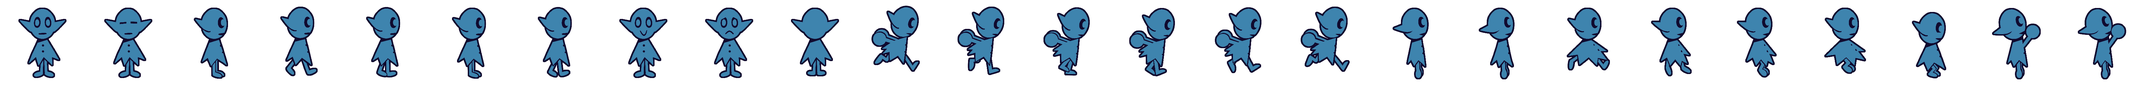
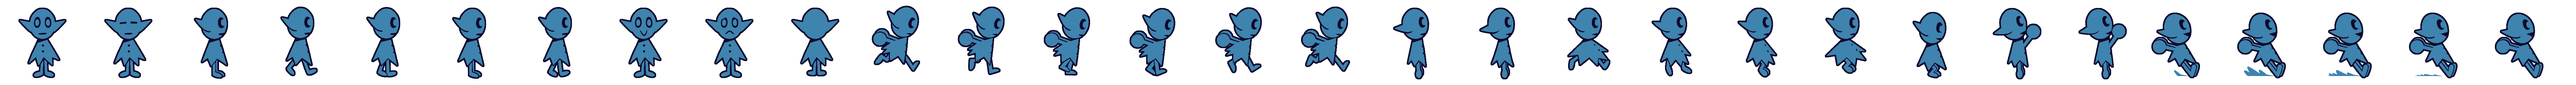
slide anims and platforms on offseason

diff --git a/offseason/kha.js b/offseason/kha.js
@@ -596,7 +596,7 @@ core_Animation.prototype = {
 			forceRestart = false;
 		}
 		this.isPaused = false;
-		if(forceRestart || this.completed || this.currentAnim == null || name != this.currentAnim.name) {
+		if(forceRestart || this.currentAnim == null || name != this.currentAnim.name) {
 			this.animTime = 0;
 			this.currentAnim = this._animations.h[name];
 			this.completed = false;
@@ -31901,8 +31901,11 @@ var game_actors_Player = function(x,y) {
 	this.animation.add("jump-down-alt",[21]);
 	this.animation.add("crouch",[22]);
 	this.animation.add("super-jump",[23,24]);
+	this.animation.add("slide",[25,26,27,28,29],0.08,false);
 	this.animation.onComplete = function(anim) {
-		_gthis.animation.play("still");
+		if(anim == "blink") {
+			_gthis.animation.play("still");
+		}
 	};
 	this.bodyOffset = new core_IntVec2(96,208);
 	this.echoBody = new echo_Body({ x : x + this.bodyOffset.x, y : y + this.bodyOffset.y, drag_x : 4800, mass : 1, max_velocity_x : 960, max_velocity_y : 1920, material : new echo_Material(0.0,null,null,null,null), shape : { type : 0, width : 64, height : 24}});
@@ -32061,7 +32064,7 @@ game_actors_Player.prototype = $extend(core_Sprite.prototype,{
 		} else if(this.state == game_actors_PlayerState.Hanging) {
 			this.animation.play("jump-down-mid");
 		} else if(this.state == game_actors_PlayerState.Sliding) {
-			this.animation.play("crouch");
+			this.animation.play("slide");
 		} else if(this.state == game_actors_PlayerState.Crouching) {
 			this.animation.play("crouch");
 		} else if(this.state == game_actors_PlayerState.Rocket) {
@@ -32077,7 +32080,7 @@ game_actors_Player.prototype = $extend(core_Sprite.prototype,{
 		if(this.echoBody.acceleration.x < 0.0 && !this.flipX) {
 			this.flipX = true;
 		}
-		haxe_Log.trace(this.animation.getCurrentAnim(),{ fileName : "game/actors/Player.hx", lineNumber : 319, className : "game.actors.Player", methodName : "updateAnimation"});
+		haxe_Log.trace(this.animation.getCurrentAnim(),{ fileName : "game/actors/Player.hx", lineNumber : 322, className : "game.actors.Player", methodName : "updateAnimation"});
 	}
 	,jump: function(superJump) {
 		this.jumpTime = 0.0;
@@ -32210,6 +32213,7 @@ game_objects_Triangle.prototype = $extend(core_Sprite.prototype,{
 	,__class__: game_objects_Triangle
 });
 var game_scenes_WorldScene = function() {
+	this.sideRects = [];
 	this.rects = [];
 	this.tris = [];
 	core_Scene.call(this);
@@ -32221,6 +32225,7 @@ game_scenes_WorldScene.prototype = $extend(core_Scene.prototype,{
 	world: null
 	,tris: null
 	,rects: null
+	,sideRects: null
 	,player: null
 	,friend: null
 	,create: function() {
@@ -32239,7 +32244,7 @@ game_scenes_WorldScene.prototype = $extend(core_Scene.prototype,{
 			var t = _g1[_g];
 			++_g;
 			var tri = new game_objects_Triangle(t.v1,t.v2,t.v3);
-			haxe_Log.trace(t.v1,{ fileName : "game/scenes/WorldScene.hx", lineNumber : 53, className : "game.scenes.WorldScene", methodName : "create", customParams : [t.v2,t.v3]});
+			haxe_Log.trace(t.v1,{ fileName : "game/scenes/WorldScene.hx", lineNumber : 54, className : "game.scenes.WorldScene", methodName : "create", customParams : [t.v2,t.v3]});
 			this.world.add(tri.echoBody);
 			this.tris.push(tri.echoBody);
 			this.addSprite(tri);
@@ -32254,6 +32259,15 @@ game_scenes_WorldScene.prototype = $extend(core_Scene.prototype,{
 			this.rects.push(rect.echoBody);
 			this.addSprite(rect);
 		}
+		var _g = 0;
+		var _g1 = map.objectGroups.h["side-rects"];
+		while(_g < _g1.length) {
+			var r = _g1[_g];
+			++_g;
+			var rect = new game_objects_Rect(r.x,r.y,r.width,r.height);
+			this.world.add(rect.echoBody);
+			this.sideRects.push(rect.echoBody);
+		}
 		this.world.add(this.friend.echoBody);
 		this.addSprite(this.friend);
 		this.world.add(this.player.echoBody);
@@ -32262,6 +32276,7 @@ game_scenes_WorldScene.prototype = $extend(core_Scene.prototype,{
 		this.camera.startFollow(this.player);
 		this.camera.setBounds(0,0,5679,6814);
 		echo_Echo.listen(this.world,haxe_ds_Either.Left(this.player.echoBody),haxe_ds_Either.Right(this.tris),{ separate : false, stay : $bind(this,this.playerStayColl)});
+		echo_Echo.listen(this.world,haxe_ds_Either.Left(this.player.echoBody),haxe_ds_Either.Right(this.sideRects));
 		echo_Echo.listen(this.world,haxe_ds_Either.Left(this.player.echoBody),haxe_ds_Either.Right(this.rects),{ separate : false, stay : $bind(this,this.playerStayColl)});
 	}
 	,update: function(delta) {
@@ -32283,7 +32298,7 @@ game_scenes_WorldScene.prototype = $extend(core_Scene.prototype,{
 			this.camera.scale.set(0.25,0.25);
 		}
 		if(this.game.keys.justPressed(79)) {
-			haxe_Log.trace(this.world.members,{ fileName : "game/scenes/WorldScene.hx", lineNumber : 115, className : "game.scenes.WorldScene", methodName : "update"});
+			haxe_Log.trace(this.world.members,{ fileName : "game/scenes/WorldScene.hx", lineNumber : 124, className : "game.scenes.WorldScene", methodName : "update"});
 		}
 		if(this.game.keys.justPressed(70)) {
 			game_util_Debug.on = !game_util_Debug.on;
@@ -32302,7 +32317,7 @@ game_scenes_WorldScene.prototype = $extend(core_Scene.prototype,{
 			++_g;
 			if(i.normal.y > 0 && (this.player.groundTimer < 0.1 || this.player.echoBody.velocity.y > 0) && this.player.state != game_actors_PlayerState.Jumping && this.player.state != game_actors_PlayerState.Rocket && this.player.state != game_actors_PlayerState.Hanging) {
 				if(this.game.keys.pressed(71)) {
-					haxe_Log.trace(i.normal,{ fileName : "game/scenes/WorldScene.hx", lineNumber : 145, className : "game.scenes.WorldScene", methodName : "playerStayColl", customParams : [this.player.state,this.player.echoBody.velocity.y]});
+					haxe_Log.trace(i.normal,{ fileName : "game/scenes/WorldScene.hx", lineNumber : 154, className : "game.scenes.WorldScene", methodName : "playerStayColl", customParams : [this.player.state,this.player.echoBody.velocity.y]});
 				}
 				this.player.touchingGround = true;
 				echo_Echo.check(this.world,haxe_ds_Either.Left(a_),haxe_ds_Either.Left(b_));
@@ -34716,8 +34731,8 @@ var kha__$Assets_ImageList = function() {
 	this.made_with_khaDescription = { name : "made_with_kha", original_height : 32, file_sizes : [785], original_width : 32, files : ["made-with-kha.png"], type : "image"};
 	this.made_with_khaName = "made_with_kha";
 	this.made_with_kha = null;
-	this.kropSize = 154804;
-	this.kropDescription = { name : "krop", original_height : 256, file_sizes : [154804], original_width : 6400, files : ["krop.png"], type : "image"};
+	this.kropSize = 174262;
+	this.kropDescription = { name : "krop", original_height : 256, file_sizes : [174262], original_width : 7680, files : ["krop.png"], type : "image"};
 	this.kropName = "krop";
 	this.krop = null;
 	this.hotel_roomSize = 62847;
@@ -34869,8 +34884,8 @@ kha__$Assets_SoundList.prototype = {
 };
 var kha__$Assets_BlobList = function() {
 	this.names = ["index_html","test1_tmx"];
-	this.test1_tmxSize = 4821;
-	this.test1_tmxDescription = { name : "test1_tmx", file_sizes : [4821], files : ["test1.tmx"], type : "blob"};
+	this.test1_tmxSize = 7738;
+	this.test1_tmxDescription = { name : "test1_tmx", file_sizes : [7738], files : ["test1.tmx"], type : "blob"};
 	this.test1_tmxName = "test1_tmx";
 	this.test1_tmx = null;
 	this.index_htmlSize = 559;
